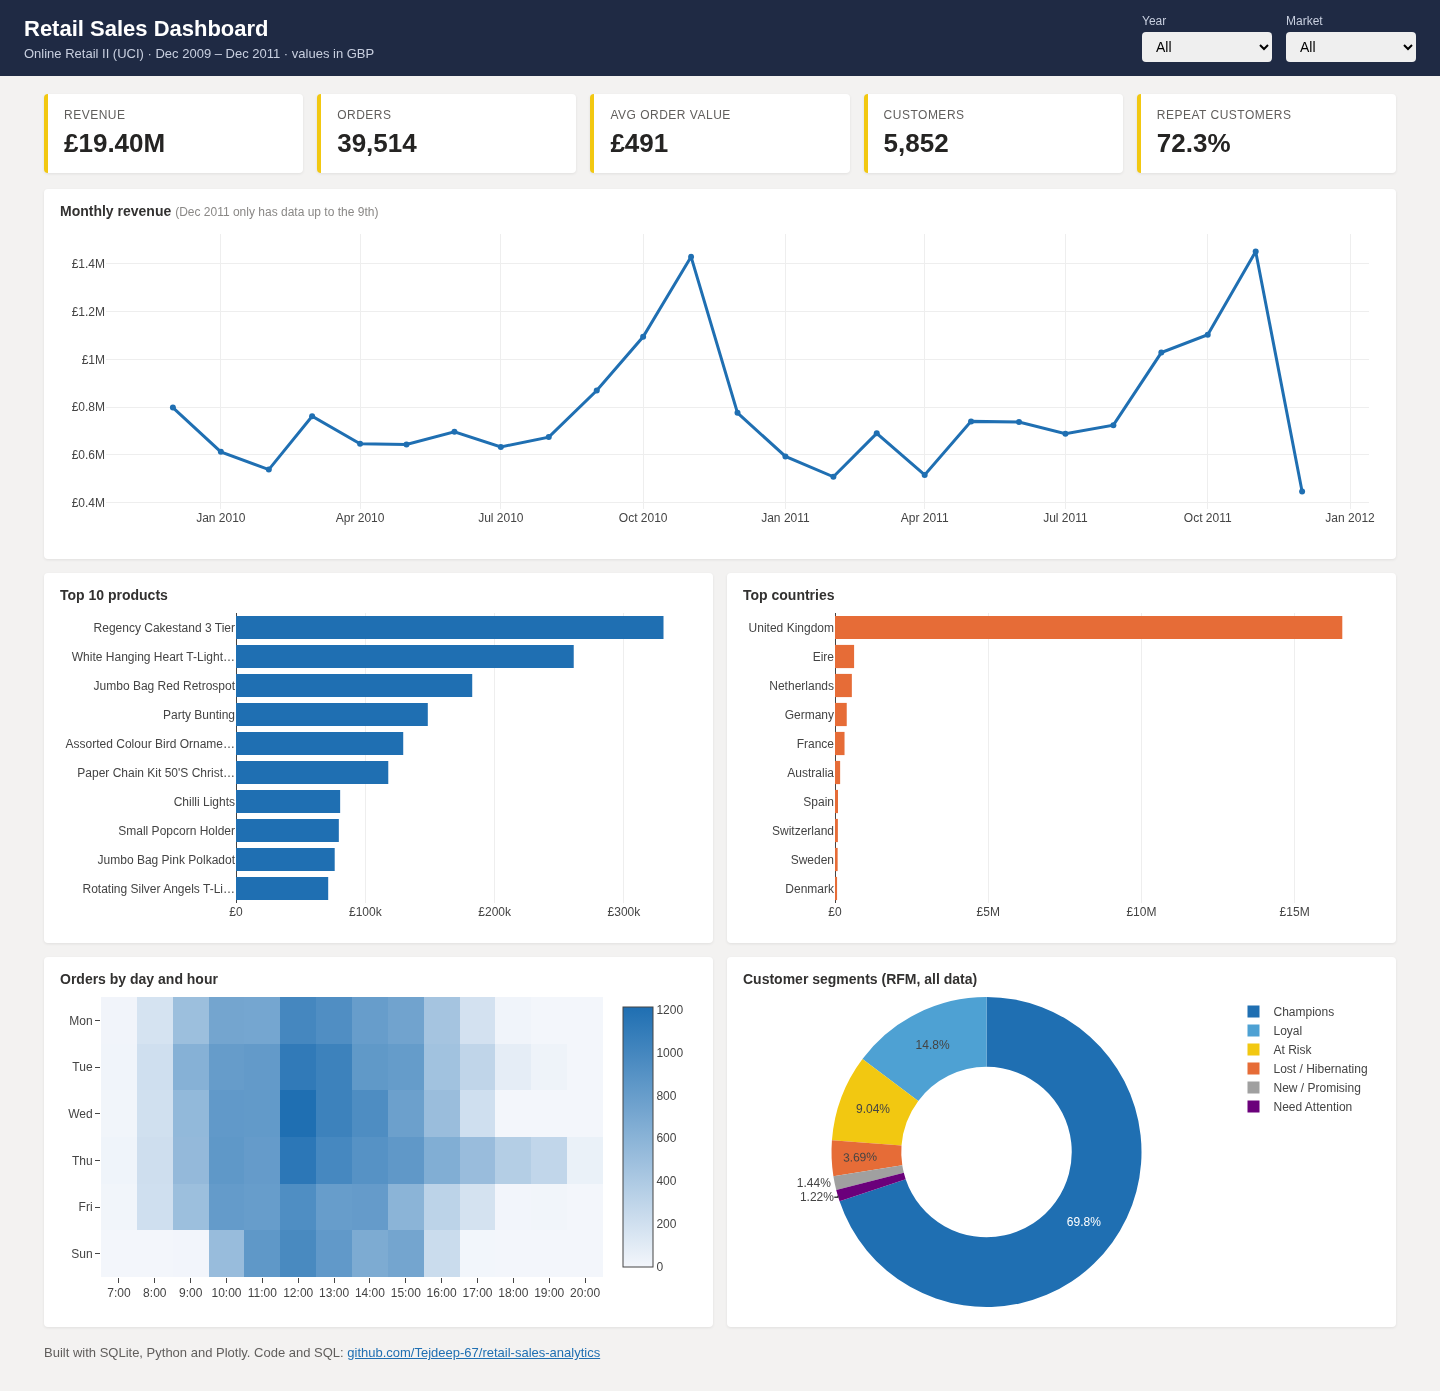
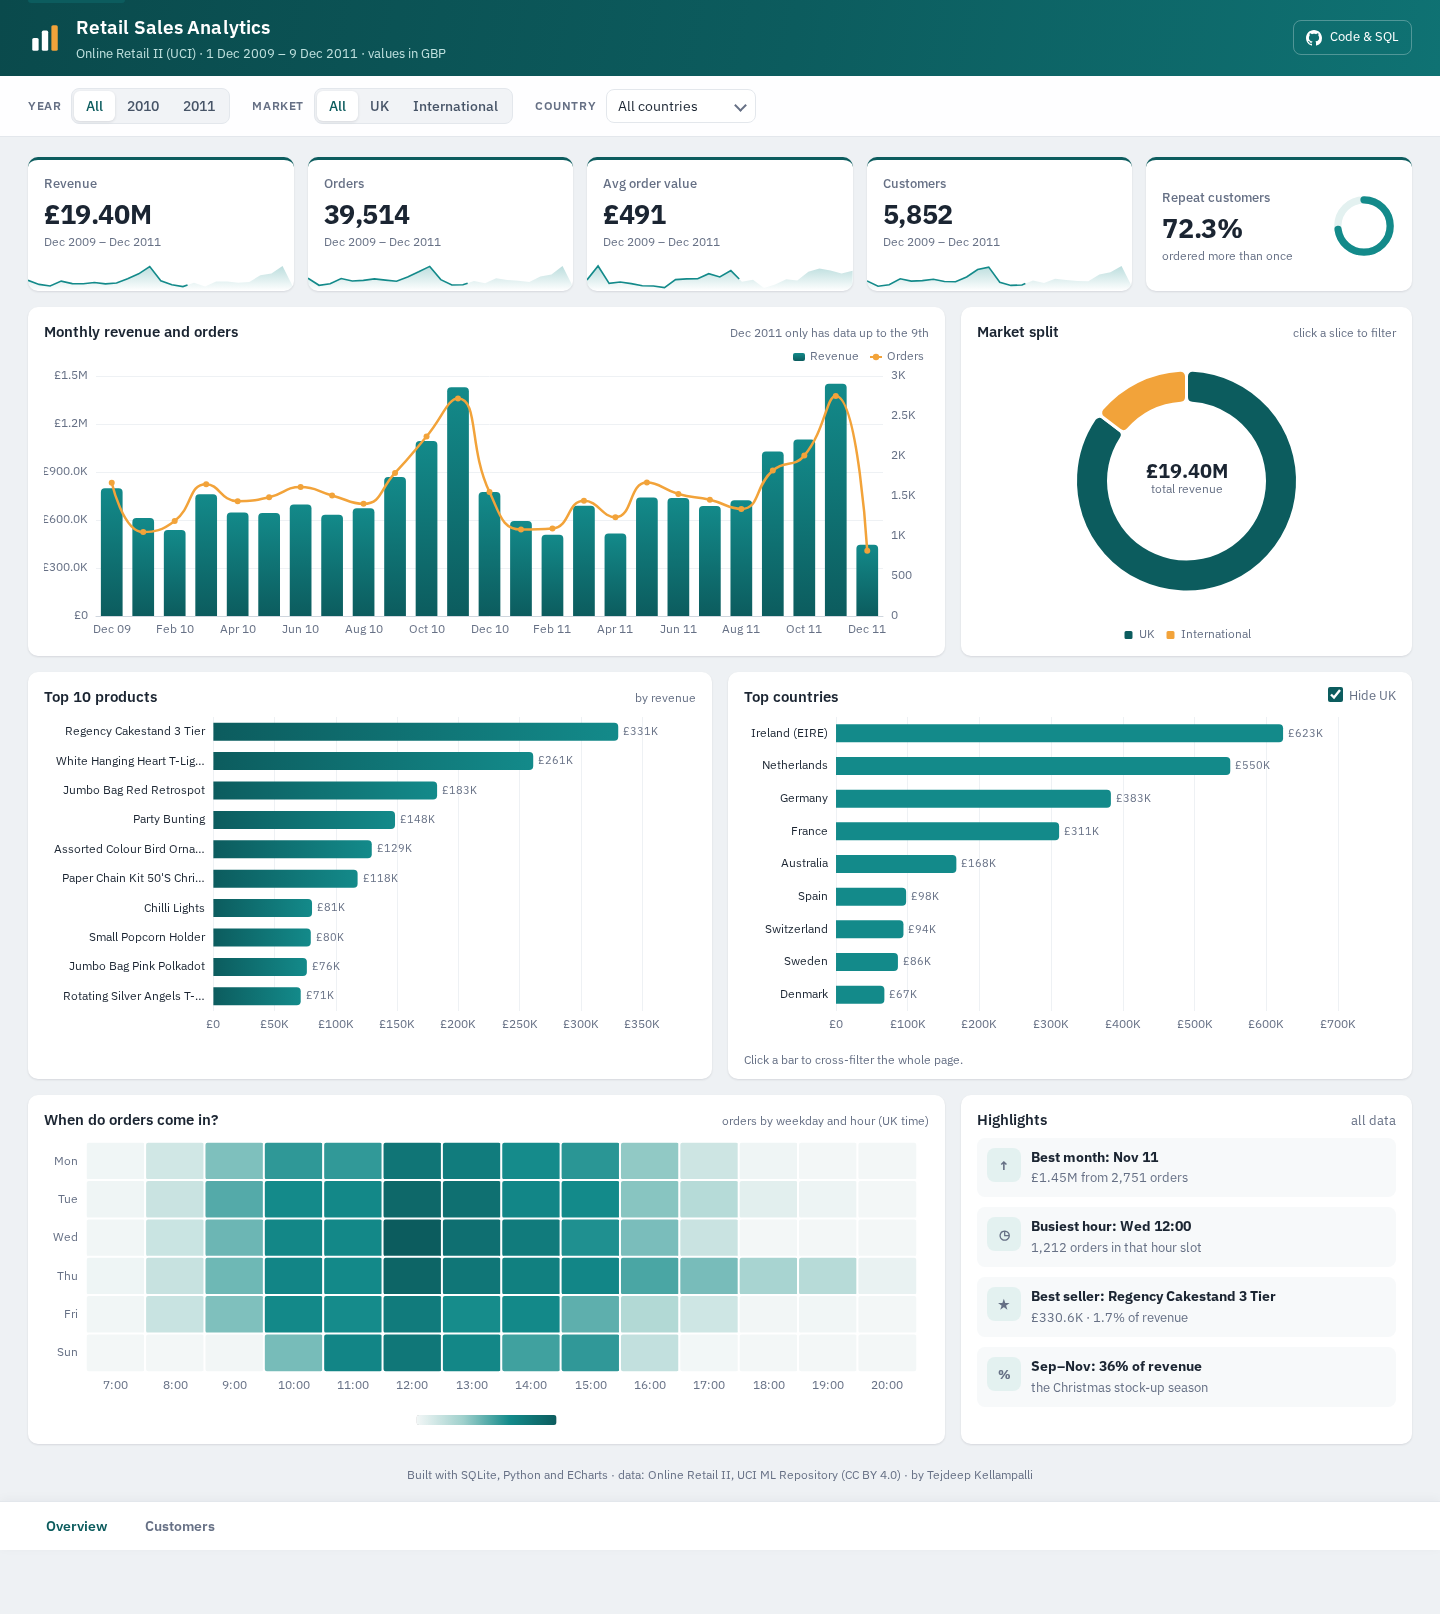
update readme and screenshots for the new dashboard

diff --git a/README.md b/README.md
@@ -2,9 +2,9 @@
 
 Analysis of about 1 million transactions from a UK online gift retailer (Dec 2009 to Dec 2011).
 I loaded the raw Excel file into a SQLite database, answered the business questions with SQL,
-and built a small Power BI style dashboard that runs on GitHub Pages.
+and built a Power BI style dashboard for it that runs in the browser.
 
-**Live dashboard:** https://tejdeep-67.github.io/retail-sales-analytics/
+**Live dashboard:** https://tejdeep-retail-analytics.netlify.app
 
 ![dashboard](images/dashboard.png)
 
@@ -36,8 +36,29 @@ The data is not stored in this repo. `scripts/download_data.py` downloads it.
 3. **Analysis in SQL** (`sql/analysis.sql`): KPIs, monthly trend with `LAG()`, top products and countries,
    RFM segmentation with `NTILE()`, cohort retention, Pareto split of customers, and returns per year.
    `scripts/run_queries.py` runs every query and saves the results in `outputs/`.
-4. **Dashboard** (`docs/`): GitHub Pages can't run Python, so `scripts/build_dashboard.py` runs the queries for
-   every Year x Market slicer combination and saves them to `data.json`. The page draws them with Plotly.
+4. **Dashboard** (`docs/`): the site is static (hosted on Netlify, no server), so `scripts/build_dashboard.py`
+   runs the queries for every filter combination (3 years x 3 markets, plus the top 10 countries) and saves
+   them to `data.json` (about 170 KB). The page just picks the right view and draws it with ECharts.
+
+## Dashboard
+
+I tried to make it feel like a Power BI report:
+
+- **Slicers** for year, market (UK / international) and country. Active filters show as chips you can remove.
+- **Cross-filtering:** click a country bar or a slice of the market donut and every visual on the page
+  updates to that selection. Click it again to clear it.
+- **KPI tiles** with a small monthly sparkline each. When 2011 is selected they also show the change vs 2010
+  (2011 stops on 9 Dec, so that comparison is a bit unfair to 2011).
+- **Highlights** card that is worked out from the current selection (best month, busiest hour, best seller,
+  Sep-Nov share).
+- A second report page, **Customers**, with the RFM segments as a treemap (click a segment to see its numbers),
+  the cohort retention heatmap, the Pareto split and cancelled orders per year.
+- The filters are kept in the URL, so a filtered view can be shared, e.g. `?year=2011&country=Germany`.
+- Works on a phone (the grid becomes one column and the report pages move to a tab bar at the bottom).
+
+![customers page](images/customers_page.png)
+
+<img src="images/dashboard_mobile.png" width="300" alt="dashboard on a phone">
 
 ## Results
 
@@ -87,7 +108,8 @@ retail-sales-analytics/
 │   ├── schema.sql
 │   └── analysis.sql
 ├── outputs/                 # query results as csv
-├── docs/                    # dashboard (GitHub Pages)
+├── docs/                    # dashboard (static site, deployed on Netlify)
+├── netlify.toml
 └── images/
 ```
 
@@ -107,6 +129,9 @@ python scripts/build_dashboard.py
 cd docs && python -m http.server 8000
 # open http://localhost:8000
 ```
+
+Deploying: Netlify just publishes the `docs/` folder (see `netlify.toml`), there is no build step because
+`data.json` is already generated and committed.
 
 You can also open `data/retail.db` in DB Browser for SQLite and run the queries in `sql/analysis.sql` yourself.
 
